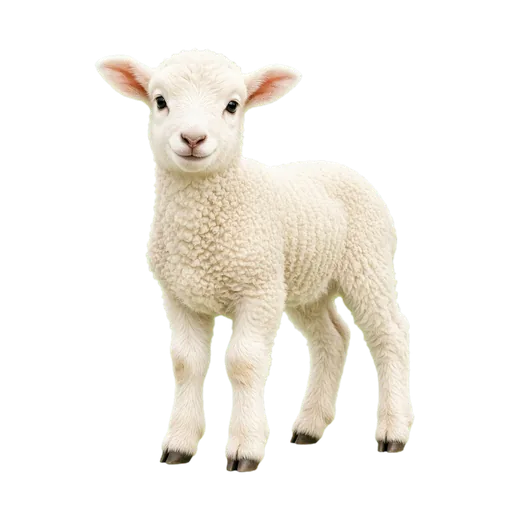
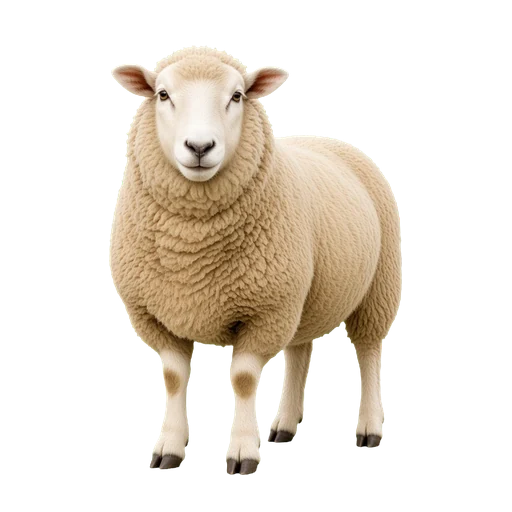
v2.7.1: adult sheep, body-conforming shaded clothing, shadows on accessories

diff --git a/js/pet/1-data.js b/js/pet/1-data.js
@@ -78,7 +78,7 @@
   function px(x) { return IMG.x + x * K; } function py(y) { return IMG.y + y * K; }
   // head: crown centre x, hat line y, head width; eye: mid x, y, distance; chest: x, y, width (source px)
   P.ANCH = {
-    sheep:  { h: [395, 150, 190], e: [392, 209, 143], c: [400, 360, 190] },
+    sheep:  { h: [401, 134, 190], e: [399, 192, 146], c: [404, 410, 250] },
     lamb:   { h: [442, 165, 215], e: [442, 242, 155], c: [450, 400, 200] },
     dove:   { h: [466, 130, 150], e: [466, 168, 95],  c: [455, 300, 210] },
     lion:   { h: [420, 200, 200], e: [421, 269, 108], c: [430, 480, 230] },
@@ -90,9 +90,10 @@
   // Canonical item frames: head brim (100,64) w80, eyes (100,90) d30, chest (100,120) w72. Hand items stay at the side.
   P.slotTf = function (type, slot) {
     var a = P.ANCH[type]; if (!a) return '';
-    if (slot === 'head' || slot === 'hair') return tf(100, 64, 80, a.h);
+    if (slot === 'head' || slot === 'hair') return tf(100, 64, 80, a.h) + ' translate(100 64) scale(1 .93) translate(-100 -64)';
     if (slot === 'face') return tf(100, 90, 30, a.e);
-    if (slot === 'neck' || slot === 'body') return tf(100, 120, 72, a.c);
+    if (slot === 'neck') return tf(100, 120, 72, a.c);
+    if (slot === 'body') return tf(100, 128, 72, [a.c[0], a.c[1] + 10, a.c[2] * 1.55]);
     return '';
   };
   function photo(k, st) {
@@ -100,6 +101,29 @@
     return '<image href="assets/pets/' + k + '.webp" x="' + IMG.x + '" y="' + IMG.y + '" width="' + IMG.w + '" height="' + IMG.w + '" preserveAspectRatio="xMidYMid meet"' + (f ? ' style="filter:' + f + '"' : '') + (sad ? ' transform="rotate(4 100 190) translate(0 3)"' : '') + '/>' +
       (sad ? '<g fill="#7fb7e6" opacity=".85"><path d="M' + (px(P.ANCH[k].e[0] - P.ANCH[k].e[2] / 2) + 1).toFixed(1) + ' ' + (py(P.ANCH[k].e[1]) + 4).toFixed(1) + 'q-2 4 0 6q2 -2 0 -6z"/></g>' : '');
   }
+  /* v2.7.1: realistic wardrobe — clothes are masked to the animal's own silhouette, curved with soft lighting, given fabric texture, wrinkles, soft shadows and feathered edges. */
+  var UID = 0;
+  P.wear = function (type, slot, inner) {
+    var u = 'w' + (++UID), d = '';
+    if (slot === 'body' || slot === 'neck') {
+      d = '<defs><filter id="' + u + 'a" x="0" y="0" width="200" height="200" filterUnits="userSpaceOnUse"><feColorMatrix in="SourceAlpha" values="0 0 0 0 1 0 0 0 0 1 0 0 0 0 1 0 0 0 1.6 0"/><feMorphology operator="dilate" radius="' + (slot === 'neck' ? 3 : 1.2) + '"/><feGaussianBlur stdDeviation=".6"/></filter>' +
+        '<mask id="' + u + 'm" maskUnits="userSpaceOnUse" x="0" y="0" width="200" height="200"><image href="assets/pets/' + type + '.webp?v=2.7.1" x="' + IMG.x + '" y="' + IMG.y + '" width="' + IMG.w + '" height="' + IMG.w + '" filter="url(#' + u + 'a)"/></mask>' +
+        '<filter id="' + u + 'c" x="-15%" y="-15%" width="130%" height="130%" color-interpolation-filters="sRGB">' +
+        '<feTurbulence type="fractalNoise" baseFrequency=".045" numOctaves="2" seed="7" result="n"/><feDisplacementMap in="SourceGraphic" in2="n" scale="3.2" xChannelSelector="R" yChannelSelector="G" result="w"/>' +
+        '<feGaussianBlur in="w" stdDeviation="5" result="b"/><feDiffuseLighting in="b" surfaceScale="7" diffuseConstant="1.18" lighting-color="#fff" result="l"><feDistantLight azimuth="250" elevation="52"/></feDiffuseLighting>' +
+        '<feComposite in="w" in2="l" operator="arithmetic" k1="1" result="s"/>' +
+        '<feTurbulence type="fractalNoise" baseFrequency="1.2 .9" numOctaves="1" seed="3"/><feColorMatrix values=".3 0 0 0 .72 .3 0 0 0 .72 .3 0 0 0 .72 0 0 0 0 1" result="t"/><feBlend in="s" in2="t" mode="multiply" result="tx"/>' +
+        '<feGaussianBlur in="w" stdDeviation=".9" result="soft"/><feComposite in="tx" in2="soft" operator="in" result="fe"/>' +
+        '<feGaussianBlur in="SourceAlpha" stdDeviation="2.4"/><feOffset dx="1" dy="2.6"/><feComponentTransfer><feFuncA type="linear" slope=".42"/></feComponentTransfer><feMerge><feMergeNode/><feMergeNode in="fe"/></feMerge></filter></defs>';
+      return d + '<g mask="url(#' + u + 'm)"><g filter="url(#' + u + 'c)" opacity=".95">' + inner + '</g></g>';
+    }
+    // hats, hair, glasses, hand items: gentle top-light shading + soft contact shadow
+    d = '<defs><filter id="' + u + 'c" x="-20%" y="-20%" width="140%" height="160%" color-interpolation-filters="sRGB">' +
+      '<feGaussianBlur in="SourceAlpha" stdDeviation="3" result="b"/><feDiffuseLighting in="b" surfaceScale="4" diffuseConstant="1.15" lighting-color="#fff" result="l"><feDistantLight azimuth="250" elevation="58"/></feDiffuseLighting>' +
+      '<feComposite in="SourceGraphic" in2="l" operator="arithmetic" k1="1" result="s"/><feComposite in="s" in2="SourceAlpha" operator="in" result="fe"/>' +
+      '<feGaussianBlur in="SourceAlpha" stdDeviation="' + (slot === 'face' ? 1.2 : 2) + '"/><feOffset dx=".8" dy="' + (slot === 'face' ? 1.6 : 2.4) + '"/><feComponentTransfer><feFuncA type="linear" slope=".38"/></feComponentTransfer><feMerge><feMergeNode/><feMergeNode in="fe"/></feMerge></filter></defs>';
+    return d + '<g filter="url(#' + u + 'c)">' + inner + '</g>';
+  };
   P.ART = {};
   ['sheep', 'lamb', 'dove', 'lion', 'donkey', 'ox', 'eagle'].forEach(function (k) { P.ART[k] = function (st) { return photo(k, st); }; });
 })();

diff --git a/index.html b/index.html
@@ -14,10 +14,10 @@
   <link rel="icon" href="icons/icon.svg" type="image/svg+xml">
   <link rel="apple-touch-icon" href="icons/icon-192.png">
   <script>(function(){try{var th=localStorage.getItem('fbg.theme');if(th==='light'){document.documentElement.setAttribute('data-theme','light');document.querySelector('meta[name="theme-color"]').setAttribute('content','#ffffff');}}catch(e){}})();</script>
-  <link rel="stylesheet" href="css/styles.css?v=2.7.0">
-  <link rel="stylesheet" href="css/app.css?v=2.7.0">
-  <link rel="stylesheet" href="css/light.css?v=2.7.0">
-  <link rel="stylesheet" href="css/pet.css?v=2.7.0">
+  <link rel="stylesheet" href="css/styles.css?v=2.7.1">
+  <link rel="stylesheet" href="css/app.css?v=2.7.1">
+  <link rel="stylesheet" href="css/light.css?v=2.7.1">
+  <link rel="stylesheet" href="css/pet.css?v=2.7.1">
 </head>
 <body>
   <a class="skip" href="#view">Skip to content</a>
@@ -26,21 +26,21 @@
   </main>
   <nav class="tabbar" aria-label="Main" hidden><div class="tabbar-inner"></div></nav>
   <script src="config.js"></script>
-  <script src="js/data.js?v=2.7.0"></script>
-  <script src="js/foods.js?v=2.7.0"></script>
-  <script src="js/foods-db.js?v=2.7.0"></script>
+  <script src="js/data.js?v=2.7.1"></script>
+  <script src="js/foods.js?v=2.7.1"></script>
+  <script src="js/foods-db.js?v=2.7.1"></script>
   <script src="js/intake-i18n.js"></script>
-  <script src="js/common.js?v=2.7.0"></script>
+  <script src="js/common.js?v=2.7.1"></script>
   <script src="js/i18n.js"></script>
-  <script src="js/core.js?v=2.7.0"></script>
-  <script src="js/views-athlete.js?v=2.7.0"></script>
-  <script src="js/views-coach.js?v=2.7.0"></script>
-  <script src="js/scan.js?v=2.7.0"></script>
-  <script src="js/health.js?v=2.7.0"></script>
-  <script src="js/sports.js?v=2.7.0"></script>
-  <script src="js/pet/1-data.js?v=2.7.0"></script>
-  <script src="js/pet/2-shop.js?v=2.7.0"></script>
-  <script src="js/pet/3-game.js?v=2.7.0"></script>
-  <script src="js/pet/4-rewards.js?v=2.7.0"></script>
+  <script src="js/core.js?v=2.7.1"></script>
+  <script src="js/views-athlete.js?v=2.7.1"></script>
+  <script src="js/views-coach.js?v=2.7.1"></script>
+  <script src="js/scan.js?v=2.7.1"></script>
+  <script src="js/health.js?v=2.7.1"></script>
+  <script src="js/sports.js?v=2.7.1"></script>
+  <script src="js/pet/1-data.js?v=2.7.1"></script>
+  <script src="js/pet/2-shop.js?v=2.7.1"></script>
+  <script src="js/pet/3-game.js?v=2.7.1"></script>
+  <script src="js/pet/4-rewards.js?v=2.7.1"></script>
 </body>
 </html>

diff --git a/sw.js b/sw.js
@@ -1,8 +1,8 @@
 /* Forged by Grace service worker — offline support. Bump VERSION after changing files. */
-var VERSION = 'fbg-v2.7.0';
+var VERSION = 'fbg-v2.7.1';
 var ASSETS = ['./', './index.html', './intake.html', './config.js', './css/styles.css', './css/app.css', './css/light.css', './js/sports.js', './js/pet/1-data.js', './js/pet/2-shop.js', './js/pet/3-game.js', './js/pet/4-rewards.js', './css/pet.css', './js/data.js', './js/foods.js', './js/foods-db.js', './js/intake-i18n.js', './js/common.js', './js/i18n.js',
   './js/core.js', './js/views-athlete.js', './js/views-coach.js', './js/scan.js', './js/intake.js', './js/health.js', './vendor/fflate.min.js', './vendor/zxing-reader.js', './vendor/zxing_reader.wasm', './manifest.webmanifest',
-  './icons/icon.svg', './assets/pets/sheep.webp', './assets/pets/lamb.webp', './assets/pets/dove.webp', './assets/pets/lion.webp', './assets/pets/donkey.webp', './assets/pets/ox.webp', './assets/pets/eagle.webp', './icons/icon-192.png', './icons/icon-512.png'];
+  './icons/icon.svg', './assets/pets/sheep.webp?v=2.7.1', './assets/pets/lamb.webp?v=2.7.1', './assets/pets/dove.webp?v=2.7.1', './assets/pets/lion.webp?v=2.7.1', './assets/pets/donkey.webp?v=2.7.1', './assets/pets/ox.webp?v=2.7.1', './assets/pets/eagle.webp?v=2.7.1', './icons/icon-192.png', './icons/icon-512.png'];
 self.addEventListener('install', function (e) {
   e.waitUntil(caches.open(VERSION).then(function (c) { return c.addAll(ASSETS); }).then(function () { return self.skipWaiting(); }));
 });

diff --git a/js/pet/3-game.js b/js/pet/3-game.js
@@ -57,7 +57,7 @@
   App.petVitals = vit;
   function settle(p) { var v = vit(p); p.f = v.f; p.w = v.w; p.j = v.j; p.ts = Date.now(); if (v.dead) p.dead = true; return v; }
   function nm(p) { return p.name || L(P.PETS[p.type]); }
-  function dressed(p, st) { var eq = p.eq || {}; return P.ART[p.type](st) + P.LAYER.map(function (k) { if (!(eq[k] && P.BY[eq[k]])) return ''; var tr = P.slotTf ? P.slotTf(p.type, k) : ''; return tr ? '<g transform="' + tr + '">' + P.BY[eq[k]].g() + '</g>' : P.BY[eq[k]].g(); }).join(''); }
+  function dressed(p, st) { var eq = p.eq || {}; return P.ART[p.type](st) + P.LAYER.map(function (k) { if (!(eq[k] && P.BY[eq[k]])) return ''; var tr = P.slotTf ? P.slotTf(p.type, k) : ''; var g = tr ? '<g transform="' + tr + '">' + P.BY[eq[k]].g() + '</g>' : P.BY[eq[k]].g(); return P.wear ? P.wear(p.type, k, g) : g; }).join(''); }
   function scene(p, opts) {
     opts = opts || {}; var se = P.season(), home = P.HBY[opts.home || (p && p.home) || 'pastures'] || P.HOMES[0];
     var sky = home.sky, id = 'k' + Math.random().toString(36).slice(2, 7);
